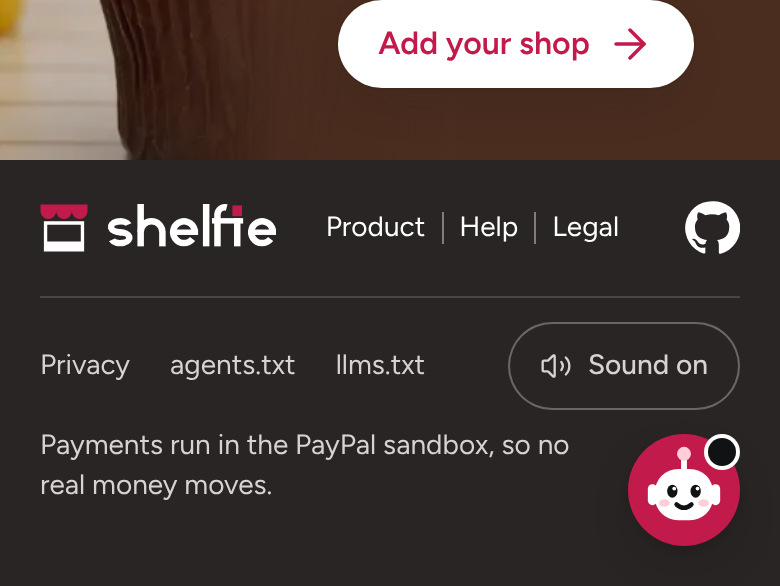
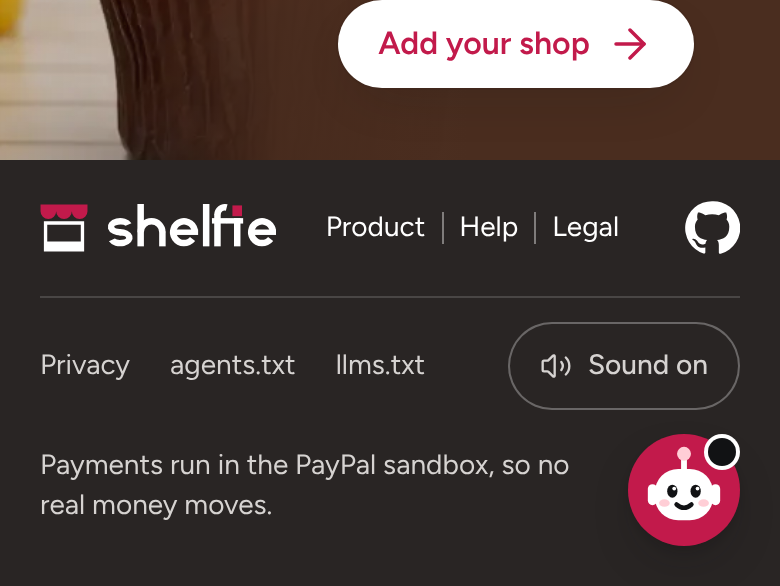
Footer fixes: phone sentence centred on the launcher, reserve from the footer's width and safe area, 360 px rows on the edge, e2e checks dead space

Changed region(s): [[0.0308, 0.7372, 0.7385, 0.8908]]

diff --git a/e2e/home-chat.spec.ts b/e2e/home-chat.spec.ts
@@ -46,7 +46,7 @@ const panel = (page: Page) => page.getByRole('dialog', { name: 'Shelfie assistan
 
 /**
  * Scrolled to the very bottom, a press at the centre of every footer control (the Sound switch included) lands on it,
- * not the launcher; and the footer keeps no band of empty charcoal for it: the band's bottom padding equals its top.
+ * not the launcher; and the footer keeps no band of empty charcoal for it.
  */
 async function expectSoundClearOfLauncher(page: Page) {
   await page.evaluate(() => window.scrollTo(0, document.documentElement.scrollHeight));
@@ -64,11 +64,25 @@ async function expectSoundClearOfLauncher(page: Page) {
       .map((el) => el.textContent?.trim() || el.getAttribute('aria-label')),
   );
   expect(covered).toEqual([]);
-  const pad = await page.locator('footer[data-site-chrome] > div > div').evaluate((el) => {
-    const s = getComputedStyle(el);
-    return [s.paddingTop, s.paddingBottom];
+  // No dead charcoal: the last row ends one band padding above the footer's end, or (under 640 px, where the sentence
+  // sits beside the launcher) the sentence's text is centred on the launcher, so the two read as one row.
+  const fit = await page.locator('footer[data-site-chrome]').evaluate((footer) => {
+    const f = footer.getBoundingClientRect();
+    const range = document.createRange();
+    range.selectNodeContents(footer.querySelector('[data-footer-note]')!);
+    const text = range.getBoundingClientRect();
+    const sound = footer.querySelector('[data-slot="sound-toggle"]')!.getBoundingClientRect();
+    const launcher = document.querySelector('.home-chat-launcher')!.getBoundingClientRect();
+    const pad = parseFloat(getComputedStyle(footer.querySelector(':scope > div > div')!).paddingTop);
+    return {
+      phone: window.innerWidth < 640,
+      under: Math.round(f.bottom - Math.max(text.bottom, sound.bottom)),
+      pad,
+      offCentre: Math.abs((text.top + text.bottom) / 2 - (launcher.top + launcher.bottom) / 2),
+    };
   });
-  expect(pad[1]).toBe(pad[0]);
+  if (fit.phone) expect(fit.offCentre).toBeLessThanOrEqual(4);
+  else expect(fit.under).toBe(fit.pad);
 }
 
 test.describe('at 1440 px', () => {

diff --git a/src/components/landing/home-chat.css b/src/components/landing/home-chat.css
@@ -8,15 +8,18 @@
 @media (min-width: 64rem) { :root { --home-chat-edge: 1.5rem; --home-chat-launcher: 3.75rem; } }
 
 /* Scrolled to the end, the launcher rests in the footer's bottom-right corner, so only that corner is kept clear: the
-   last row stops short of it (none once the content edge clears it). Under 640 px that row is full, so the test-mode
-   sentence, its last line, narrows and grows to the launcher's height instead. */
+   last row stops short of it (none once the content edge clears it). `cqw` is the footer's own width, so a classic
+   scrollbar does not count, as it does not for the fixed launcher. Under 640 px that row is full, so the test-mode
+   sentence, its last line, narrows beside the launcher and is centred on it, so the two read as one row. */
+body:has([data-home-chat]) footer[data-site-chrome] { container-type: inline-size; }
 body:has([data-home-chat]) footer[data-site-chrome] [data-footer-end] {
-  padding-inline-end: max(0px, calc(var(--home-chat-edge) + var(--home-chat-launcher) + 0.75rem - var(--spacing-band-gutter) - max(0px, (100vw - var(--container-site)) / 2)));
+  padding-inline-end: max(0px, calc(max(var(--home-chat-edge), env(safe-area-inset-right)) + var(--home-chat-launcher) + 0.75rem - var(--spacing-band-gutter) - max(0px, (100cqw - var(--container-site)) / 2)));
 }
 @media (width < 40rem) {
   body:has([data-home-chat]) footer[data-site-chrome] [data-footer-end] { padding-inline-end: 0; }
   body:has([data-home-chat]) footer[data-site-chrome] [data-footer-note] {
-    padding-inline-end: calc(var(--home-chat-edge) + var(--home-chat-launcher) + 0.75rem - var(--spacing-band-gutter));
+    display: flex; align-items: center;
+    padding-inline-end: calc(max(var(--home-chat-edge), env(safe-area-inset-right)) + var(--home-chat-launcher) + 0.75rem - var(--spacing-band-gutter));
     min-height: calc(var(--home-chat-bottom) + var(--home-chat-launcher) + 0.75rem - var(--footer-pad));
   }
 }

diff --git a/src/components/brand/SiteFooter.tsx b/src/components/brand/SiteFooter.tsx
@@ -72,7 +72,7 @@ function SiteWideFooter() {
   return (
     <div className="bg-charcoal text-on-dark [--focus-ring-color:var(--white)]">
       <div className="mx-auto w-full max-w-site px-band-gutter py-(--footer-pad) [--footer-pad:--spacing(3)] md:[--footer-pad:--spacing(4)]">
-        <div className="flex items-center justify-between gap-x-3 pb-(--footer-pad) md:grid md:grid-cols-[1fr_auto_1fr]">
+        <div className="flex items-center justify-between gap-x-2 pb-(--footer-pad) min-[375px]:gap-x-3 md:grid md:grid-cols-[1fr_auto_1fr]">
           <Logo size="sm" className="shrink-0 justify-self-start text-on-dark md:h-7" />
           <nav aria-label="Footer">
             <ul className="flex items-center gap-x-2 text-sm md:gap-x-5 md:text-base">
@@ -85,7 +85,7 @@ function SiteWideFooter() {
             </ul>
           </nav>
           {/* -mr-2: the 28 px mark sits in a 44 px target, so its drawn edge lines up with the content edge. */}
-          <a href={REPO_URL} aria-label="Shelfie on GitHub" className={`press-icon -mr-2 inline-flex size-tap items-center justify-center justify-self-end rounded-full ${ROUND_ON_DARK}`}>
+          <a href={REPO_URL} aria-label="Shelfie on GitHub" className={`press-icon -mr-2 inline-flex size-tap shrink-0 items-center justify-center justify-self-end rounded-full ${ROUND_ON_DARK}`}>
             <GitHubMark className="size-7" />
           </a>
         </div>
@@ -93,7 +93,7 @@ function SiteWideFooter() {
           <p data-footer-note="" className="py-2 text-sm text-on-dark-soft max-lg:order-last max-lg:w-full">
             {TEST_MODE_LINE}
           </p>
-          <div className="flex items-center gap-x-5 max-lg:w-full">
+          <div className="flex items-center gap-x-3 max-lg:w-full min-[375px]:gap-x-5">
             {FOOTER_SMALL.map((link) => (
               <FooterAnchor key={link.href} link={link} tone="bandSmall" />
             ))}

diff --git a/docs/judge/footer-r8.md b/docs/judge/footer-r8.md
@@ -32,7 +32,7 @@ What was wrong, and what changed:
    occupies a 60 px corner. Now only that corner is kept clear (`home-chat.css`): from 640 px the last row stops short
    of the launcher (`padding-inline-end`, 61 px at 1440, 0 at 1920 where the content edge already clears it), and the
    launcher rests beside the Sound switch at the end of the row. Under 640 px the row is full, so the test-mode sentence
-   (now the last line on phones) narrows beside the launcher and grows to its height: 20 px taller than on `/help`
+   (now the last line on phones) narrows beside the launcher and is centred on it: 20 px taller than on `/help`
    at 390, the only height the home page still adds, and the launcher fills it.
 2. **Uneven padding.** 20 px above the first row and 20 px above the divider, but 8 px below it and 8 px at the end.
    Now one value, `--footer-pad` (12 px under 768, 16 px from 768, both on the 4 px scale), above, either side of the
@@ -46,7 +46,34 @@ What was wrong, and what changed:
    links fell under the sentence, left-aligned. Under 1024 px the links and Sound switch are now one line (switch at
    the right edge) and the sentence sits under them.
 
+## Fix round (after the check)
+
+Measured the same way on a dev server, scrolled to the end. **Text gap** = the test-mode sentence's last line to the
+footer's end; **text centre / launcher centre** = their heights above the footer's end.
+
+| Page, width | Text gap (before → after) | Text centre / launcher centre | Sound right / content edge | GitHub mark right / target |
+|---|---|---|---|---|
+| `/` 390 | 42 → 32 | 62 → 51 / 48 | 370 / 370 | 370 / 44 px |
+| `/` 480 | 42 → 32 (2 lines) | 62 → 51 / 48 | 460 / 460 | 460 / 44 px |
+| `/` 639 | 62 → 42 (1 line) | 72 → 51 / 48 | 619 / 619 | 619 / 44 px |
+| `/` and `/help` 360 | unchanged | (home) 51 / 48 | **349 → 340** / 340 | **343 → 340** / **39 → 44 px** |
+| `/` 768 to 1920 | unchanged (16 px under the last row) | — | 680, 928, 1344, 1640 (launcher beside it from 640 to ~1550, kept) | on the edge |
+
+- Under 640 px the sentence is now centred on the launcher (`display: flex; align-items: center` in its reserved
+  height), so the launcher and the words are one row and the lowest thing drawn, the launcher, sits 20 px from the end,
+  as the logo glyph sits 22 px from the top. The reserved height cannot shrink: it is what keeps the Sound row above
+  the launcher's top.
+- The reserve reads the footer's own width (`cqw`) and `env(safe-area-inset-right)`, so a classic scrollbar no longer
+  eats into the 12 px gap beside the switch.
+- At 360 the rows' gaps tighten (12 px between the small links, 8 px in the main row), so the switch and GitHub mark end
+  on the content edge and GitHub keeps its 44 px target. The page's 16 px overflow at 360 and 375 is the header's menu
+  button (`BandHeader`), not the footer.
+- Kept: the switch stops short of the right content edge on `/` from 640 to ~1550 px, because the launcher rests there
+  (the alternative is the padded band the owner called vacant space). The 8 px between a 28 px logo and its 44 px row
+  at the top is the tap targets' height, mirrored by the Sound pill's 44 px at the bottom.
+
 Checked in `e2e/home-chat.spec.ts`: scrolled to the end at 1440 and 390, every footer link and button is hit at its
-centre (none is under the launcher) and the band's bottom padding equals its top.
+centre (none is under the launcher); at 1440 the last row ends exactly one band padding above the footer's end, and at
+390 the sentence's centre is within 4 px of the launcher's.
 
 Screenshots: `docs/preview/footer-390.png`, `docs/preview/footer-1440.png` (production build, `/`, scrolled to the end).

diff --git a/docs/DESIGN.md b/docs/DESIGN.md
@@ -232,7 +232,7 @@ Built from the owner's reference image (run 6), and the one place the rules abov
 - **Icons and step images:** How it works shows no icons: each step has one focal region of Shelfie itself, cropped about 480 CSS px wide so its text reads at every width (`public/landing/step-*.webp`, 960×720, 4:3, rounded `rounded-2xl` frame with `shadow-md`, lazy `<img>` with width and height), stacked above its text up to `lg` (at most `max-w-md`) and in three columns from `lg`, since three columns at `md` shrink the frames below the phone's. Re-shoot them from the app if those screens change. `landing/art.tsx` keeps the accent marks and the hero's assistant mark: a neutral speech bubble and spark, never an AI company's mark; PayPal appears as blue text.
 - **Footer:** the charcoal band inside `max-w-site` + `px-band-gutter`, two rows split by a hairline, with one padding (`--footer-pad`, 12 px, 16 px from 768) above, either side of the line and below. Row one: the logo, the four links (centred on the page from 768 px by a `1fr auto 1fr` grid) and GitHub (its drawn mark on the content edge). Row two: the test-mode sentence, then Privacy, agents.txt, llms.txt and the Sound switch at the right edge; under 1024 px the links and switch come first and the sentence is the last line.
 - **Sound switch:** the footer's control reads `Sound on` / `Sound off` beside its speaker icon, in an outlined 44 px pill; its accessible name is `Sound` with `aria-pressed`.
-- **Home chat:** a round pomegranate launcher at the bottom right (above `env(safe-area-inset-bottom)`) with Shelfie's own bot drawing (`landing/BotMark.tsx`: white head, ink eyes, blush cheeks and antenna; never a stock icon or an AI company's mark) and an ink unread dot until first opened. It opens the real buyer console for the example shop: a 380 x 560 panel anchored above it from 1024 px (auto-opens once per session after 4 s, never taking focus, and only on screens at least 700 px tall; its height stops short of the sticky header), a bottom sheet below 1024 px, where a speech bubble ("Hi! Want to try ordering?") replaces the auto-open. Scrolled to the end, the launcher rests in the footer's bottom-right corner, and only that corner is kept clear (`home-chat.css`): from 640 px the footer's last row stops short of it, under 640 px the test-mode sentence (the last line there) narrows beside it and grows to its height; the band itself keeps its even padding. Entrances are CSS opacity/transform only.
+- **Home chat:** a round pomegranate launcher at the bottom right (above `env(safe-area-inset-bottom)`) with Shelfie's own bot drawing (`landing/BotMark.tsx`: white head, ink eyes, blush cheeks and antenna; never a stock icon or an AI company's mark) and an ink unread dot until first opened. It opens the real buyer console for the example shop: a 380 x 560 panel anchored above it from 1024 px (auto-opens once per session after 4 s, never taking focus, and only on screens at least 700 px tall; its height stops short of the sticky header), a bottom sheet below 1024 px, where a speech bubble ("Hi! Want to try ordering?") replaces the auto-open. Scrolled to the end, the launcher rests in the footer's bottom-right corner, and only that corner is kept clear (`home-chat.css`): from 640 px the footer's last row stops short of it, under 640 px the test-mode sentence (the last line there) narrows beside it and is centred on it, so the two read as one row; the band itself keeps its even padding. Entrances are CSS opacity/transform only.
 
 ## Rules
 

diff --git a/docs/DECISIONS.md b/docs/DECISIONS.md
@@ -338,3 +338,7 @@ Brainstorming questions were answered by the coordinator from CLAUDE.md, docs/ID
 - **One footer padding, `--footer-pad` (12 px, 16 px from 768), above, either side of the divider and below.** Reason: the band had 20 px above each row but 8 px below, which read as a heavy top and a cramped end.
 - **From 768 px the footer's main row is a `1fr auto 1fr` grid; GitHub's 44 px target sits 8 px into the gutter.** Reason: `justify-between` put the links 47 px right of the page centre, and the 28 px mark stopped 8 px short of the content edge the Sound switch ends on.
 - **Under 1024 px the footer's links and Sound switch come before the test-mode sentence.** Reason: at 768 the sentence and links did not fit on one line and the links wrapped left-aligned under it; links first gives a full line with the switch at the right edge, and the sentence as the last line is the one that can narrow beside the home launcher.
+- **Under 640 px on the home page the test-mode sentence is centred on the chat launcher beside it, not top-aligned over an empty strip.** Reason: the launcher must clear the Sound row above it, so that last line is launcher-height; centring the text on the launcher makes the pair one row (launcher 20 px from the band's end, as the logo is from its top) instead of 42 px of charcoal under the words.
+- **The home footer's Sound switch stays short of the content edge from 640 to about 1550 px (checker finding, kept).** Reason: the fixed launcher rests over that edge; putting the switch on it would mean either padding the band below the launcher again (the owner's vacant space) or moving the launcher, and the launcher beside the switch closes the row.
+- **The launcher reserve uses the footer's own width (`cqw`, the footer is an inline-size container) and `safe-area-inset-right`, not `100vw`.** Reason: `100vw` counts a classic scrollbar the fixed launcher does not, which shrank the gap beside the switch by the scrollbar's width.
+- **Under 375 px the footer's row gaps tighten (12 px small links, 8 px main row).** Reason: at 360 the Sound switch poked 9 px into the gutter and the GitHub target shrank to 39 px; now both end on the content edge with a full 44 px target.
